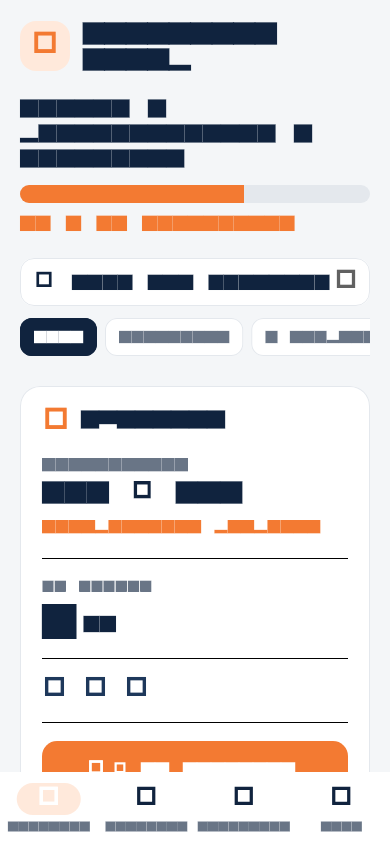
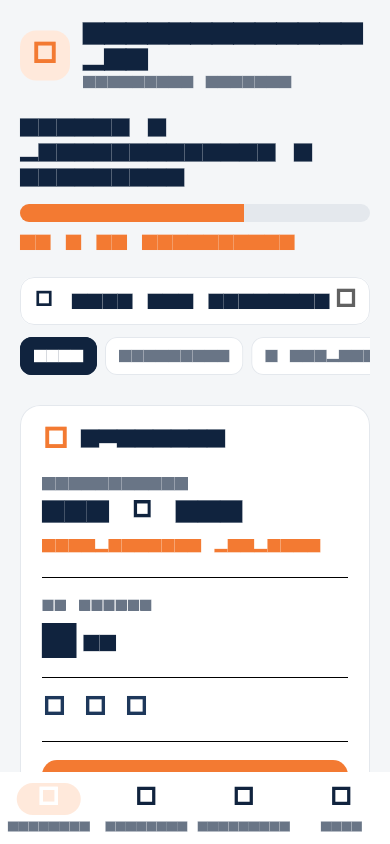
feat(rc1.1): add volunteer email and finalize app identity

Changed region(s): [[0.0308, 0.0, 0.9538, 0.9242], [0.7077, 0.0, 0.9538, 0.0616]]

diff --git a/lib/widgets/common.dart b/lib/widgets/common.dart
@@ -506,6 +506,7 @@ class _RegistrationSheetState extends State<_RegistrationSheet> {
   final _firstNameController = TextEditingController();
   final _lastNameController = TextEditingController();
   final _phoneController = TextEditingController();
+  final _emailController = TextEditingController();
   bool _submitting = false;
 
   @override
@@ -513,6 +514,7 @@ class _RegistrationSheetState extends State<_RegistrationSheet> {
     _firstNameController.dispose();
     _lastNameController.dispose();
     _phoneController.dispose();
+    _emailController.dispose();
     super.dispose();
   }
 
@@ -542,6 +544,29 @@ class _RegistrationSheetState extends State<_RegistrationSheet> {
                 style: Theme.of(context).textTheme.bodyMedium,
               ),
               const SizedBox(height: 18),
+              Text(
+                'Profession',
+                style: Theme.of(context).textTheme.titleMedium,
+              ),
+              RadioGroup<VolunteerProfession>(
+                groupValue: _profession,
+                onChanged: (value) => setState(() => _profession = value!),
+                child: const Column(
+                  children: [
+                    RadioListTile<VolunteerProfession>(
+                      contentPadding: EdgeInsets.zero,
+                      value: VolunteerProfession.mk,
+                      title: Text('Masseur-kinésithérapeute'),
+                    ),
+                    RadioListTile<VolunteerProfession>(
+                      contentPadding: EdgeInsets.zero,
+                      value: VolunteerProfession.pp,
+                      title: Text('Pédicure-podologue'),
+                    ),
+                  ],
+                ),
+              ),
+              const SizedBox(height: 8),
               Row(
                 children: [
                   Expanded(
@@ -570,27 +595,13 @@ class _RegistrationSheetState extends State<_RegistrationSheet> {
                 decoration: const InputDecoration(labelText: 'Téléphone'),
                 validator: _required,
               ),
-              const SizedBox(height: 18),
-              Text(
-                'Votre profession',
-                style: Theme.of(context).textTheme.titleMedium,
-              ),
-              RadioGroup<VolunteerProfession>(
-                groupValue: _profession,
-                onChanged: (value) => setState(() => _profession = value!),
-                child: const Column(
-                  children: [
-                    RadioListTile<VolunteerProfession>(
-                      contentPadding: EdgeInsets.zero,
-                      value: VolunteerProfession.mk,
-                      title: Text('Masseur-kinésithérapeute'),
-                    ),
-                    RadioListTile<VolunteerProfession>(
-                      contentPadding: EdgeInsets.zero,
-                      value: VolunteerProfession.pp,
-                      title: Text('Pédicure-podologue'),
-                    ),
-                  ],
+              const SizedBox(height: 10),
+              TextFormField(
+                controller: _emailController,
+                keyboardType: TextInputType.emailAddress,
+                autofillHints: const [AutofillHints.email],
+                decoration: const InputDecoration(
+                  labelText: 'Email (facultatif)',
                 ),
               ),
               const SizedBox(height: 8),
@@ -626,6 +637,7 @@ class _RegistrationSheetState extends State<_RegistrationSheet> {
         firstName: _firstNameController.text,
         lastName: _lastNameController.text,
         phone: _phoneController.text,
+        email: _emailController.text,
         profession: _profession,
       );
       if (!mounted) return;

diff --git a/lib/screens/slots_screen.dart b/lib/screens/slots_screen.dart
@@ -124,24 +124,26 @@ class _CrisisHeader extends StatelessWidget {
       children: [
         Row(
           children: [
-            Container(
-              width: 50,
-              height: 50,
-              decoration: BoxDecoration(
-                color: AppColors.orangeSoft,
-                borderRadius: BorderRadius.circular(16),
-              ),
-              child: const Icon(
-                Icons.local_fire_department_rounded,
-                color: AppColors.orange,
-                size: 28,
-              ),
-            ),
+            const _UrpsLogoSlot(),
             const SizedBox(width: 13),
             Expanded(
-              child: Text(
-                'Interface Récup',
-                style: Theme.of(context).textTheme.headlineMedium,
+              child: Column(
+                crossAxisAlignment: CrossAxisAlignment.start,
+                children: [
+                  Text(
+                    'InterfaceRecup33',
+                    style: Theme.of(context).textTheme.headlineMedium,
+                  ),
+                  const SizedBox(height: 2),
+                  const Text(
+                    'Incendies Gironde',
+                    style: TextStyle(
+                      color: AppColors.textMuted,
+                      fontSize: 12,
+                      fontWeight: FontWeight.w700,
+                    ),
+                  ),
+                ],
               ),
             ),
           ],
@@ -167,6 +169,33 @@ class _CrisisHeader extends StatelessWidget {
           ),
         ),
       ],
+    );
+  }
+}
+
+class _UrpsLogoSlot extends StatelessWidget {
+  const _UrpsLogoSlot();
+
+  @override
+  Widget build(BuildContext context) {
+    // Remplacer l’icône par l’asset officiel URPS MK NA lorsqu’il sera fourni.
+    return Semantics(
+      label: 'Emplacement du logo URPS MK Nouvelle-Aquitaine',
+      image: true,
+      child: Container(
+        key: const Key('urps-logo-slot'),
+        width: 50,
+        height: 50,
+        decoration: BoxDecoration(
+          color: AppColors.orangeSoft,
+          borderRadius: BorderRadius.circular(16),
+        ),
+        child: const Icon(
+          Icons.local_fire_department_rounded,
+          color: AppColors.orange,
+          size: 28,
+        ),
+      ),
     );
   }
 }

diff --git a/test/widget_test.dart b/test/widget_test.dart
@@ -17,7 +17,8 @@ void main() {
     tester,
   ) async {
     await pumpIPhone(tester);
-    expect(find.text('Interface Récup'), findsOneWidget);
+    expect(find.text('InterfaceRecup33'), findsOneWidget);
+    expect(find.text('Incendies Gironde'), findsOneWidget);
     expect(find.text('64 % de couverture'), findsOneWidget);
     expect(find.text('MÉRIGNAC'), findsOneWidget);
     expect(find.text('❤ JE M’ENGAGE'), findsOneWidget);
@@ -40,6 +41,31 @@ void main() {
     expect(tester.takeException(), isNull);
   });
 
+  testWidgets('engagement form includes an optional email after profession', (
+    tester,
+  ) async {
+    await pumpIPhone(tester);
+    await tester.scrollUntilVisible(
+      find.text('❤ JE M’ENGAGE'),
+      300,
+      scrollable: find.byType(Scrollable).first,
+    );
+    await tester.drag(
+      find.byType(CustomScrollView).first,
+      const Offset(0, -100),
+    );
+    await tester.pumpAndSettle();
+    await tester.tap(find.text('❤ JE M’ENGAGE').first);
+    await tester.pumpAndSettle();
+
+    expect(find.text('Profession'), findsOneWidget);
+    expect(find.text('Prénom'), findsOneWidget);
+    expect(find.text('Nom'), findsOneWidget);
+    expect(find.text('Téléphone'), findsOneWidget);
+    expect(find.text('Email (facultatif)'), findsOneWidget);
+    expect(tester.takeException(), isNull);
+  });
+
   testWidgets('all main screens are reachable without overflow', (
     tester,
   ) async {
@@ -55,7 +81,7 @@ void main() {
       );
     }
 
-    expect(find.text('Interface Récup'), findsOneWidget);
+    expect(find.text('InterfaceRecup33'), findsOneWidget);
   });
 
   testWidgets('slot filters update visible cards', (tester) async {

diff --git a/lib/repositories/firestore_coordination_repository.dart b/lib/repositories/firestore_coordination_repository.dart
@@ -30,6 +30,7 @@ class FirestoreCoordinationRepository implements CoordinationRepository {
     required String firstName,
     required String lastName,
     required String phone,
+    String? email,
     required VolunteerProfession profession,
   }) async {
     final missionRef = _firestore.collection('missions').doc(missionId);
@@ -62,13 +63,18 @@ class FirestoreCoordinationRepository implements CoordinationRepository {
       );
       final now = FieldValue.serverTimestamp();
 
-      transaction.set(volunteerRef, {
+      final volunteerData = <String, dynamic>{
         'firstName': firstName.trim(),
         'lastName': lastName.trim(),
         'phone': phone.trim(),
         'profession': profession.name,
         'createdAt': now,
-      });
+      };
+      final normalizedEmail = email?.trim();
+      if (normalizedEmail != null && normalizedEmail.isNotEmpty) {
+        volunteerData['email'] = normalizedEmail;
+      }
+      transaction.set(volunteerRef, volunteerData);
       transaction.set(engagementRef, {
         'missionId': missionId,
         'volunteerId': volunteerRef.id,

diff --git a/web/index.html b/web/index.html
@@ -18,18 +18,18 @@
 
   <meta charset="UTF-8">
   <meta content="IE=Edge" http-equiv="X-UA-Compatible">
-  <meta name="description" content="Coordination des MK et pédicures-podologues volontaires.">
+  <meta name="description" content="InterfaceRecup33 — Incendies Gironde">
 
   <!-- iOS meta tags & icons -->
   <meta name="mobile-web-app-capable" content="yes">
   <meta name="apple-mobile-web-app-status-bar-style" content="black">
-  <meta name="apple-mobile-web-app-title" content="Récup Incendies 33">
-  <link rel="apple-touch-icon" href="icons/Icon-192.png">
+  <meta name="apple-mobile-web-app-title" content="InterfaceRecup33">
+  <link rel="apple-touch-icon" sizes="192x192" href="icons/Icon-192.png">
 
   <!-- Favicon -->
-  <link rel="icon" type="image/png" href="favicon.png"/>
+  <link rel="icon" type="image/png" href="favicon.png">
 
-  <title>Interface Récup Incendies Gironde</title>
+  <title>InterfaceRecup33</title>
   <link rel="manifest" href="manifest.json">
 </head>
 <body>

diff --git a/lib/repositories/mock_coordination_repository.dart b/lib/repositories/mock_coordination_repository.dart
@@ -39,6 +39,7 @@ class MockCoordinationRepository implements CoordinationRepository {
     required String firstName,
     required String lastName,
     required String phone,
+    String? email,
     required VolunteerProfession profession,
   }) async {
     final index = _missions.indexWhere((mission) => mission.id == missionId);
@@ -60,9 +61,15 @@ class MockCoordinationRepository implements CoordinationRepository {
         firstName: firstName.trim(),
         lastName: lastName.trim(),
         phone: phone.trim(),
+        email: _nullableTrim(email),
         profession: profession,
       ),
     );
     _missionUpdates.add(List.unmodifiable(_missions));
+  }
+
+  static String? _nullableTrim(String? value) {
+    final trimmed = value?.trim();
+    return trimmed == null || trimmed.isEmpty ? null : trimmed;
   }
 }

diff --git a/test/mock_repository_test.dart b/test/mock_repository_test.dart
@@ -26,6 +26,7 @@ void main() {
       firstName: 'Jeanne',
       lastName: 'Martin',
       phone: '0600000000',
+      email: ' jeanne@example.fr ',
       profession: VolunteerProfession.mk,
     );
     await updatedEmission.future;
@@ -34,6 +35,7 @@ void main() {
     expect(emissions.last.single.registeredPhysiotherapists, 2);
     expect(emissions.last.single.coverage, greaterThan(needs.first.coverage));
     expect(repository.volunteers.single.firstName, 'Jeanne');
+    expect(repository.volunteers.single.email, 'jeanne@example.fr');
     await subscription.cancel();
   });
 
@@ -65,5 +67,6 @@ void main() {
     final updated = await repository.watchMissions().first;
 
     expect(updated.single.status, NeedStatus.complete);
+    expect(repository.volunteers.single.email, isNull);
   });
 }

diff --git a/lib/app.dart b/lib/app.dart
@@ -16,7 +16,7 @@ class FireCoordinationApp extends StatelessWidget {
     return RepositoryScope(
       repository: repository ?? MockCoordinationRepository.instance,
       child: MaterialApp(
-        title: 'Interface Récup Incendies Gironde',
+        title: 'InterfaceRecup33',
         debugShowCheckedModeBanner: false,
         theme: AppTheme.light,
         home: const AppShell(),

diff --git a/lib/models/need.dart b/lib/models/need.dart
@@ -47,12 +47,14 @@ class Volunteer {
     required this.firstName,
     required this.lastName,
     required this.phone,
+    this.email,
     required this.profession,
   });
 
   final String firstName;
   final String lastName;
   final String phone;
+  final String? email;
   final VolunteerProfession profession;
 }
 

diff --git a/lib/repositories/coordination_repository.dart b/lib/repositories/coordination_repository.dart
@@ -10,6 +10,7 @@ abstract interface class CoordinationRepository {
     required String firstName,
     required String lastName,
     required String phone,
+    String? email,
     required VolunteerProfession profession,
   });
 }

diff --git a/README.md b/README.md
@@ -1,4 +1,4 @@
-# Interface Récup Incendies Gironde
+# InterfaceRecup33
 
 PWA Flutter de coordination en temps réel des professionnels volontaires.
 
@@ -34,7 +34,8 @@ implémentations disponibles sont :
 - `locations` : `name`, `type`, `group`, `activeNeeds`, `address`
 - `missions` : `place`, `group`, `date`, `time`, quotas et compteurs MK/PP,
   `equipment`, `status`
-- `volunteers` : `firstName`, `lastName`, `phone`, `profession`, `createdAt`
+- `volunteers` : `firstName`, `lastName`, `phone`, `email` facultatif,
+  `profession`, `createdAt`
 - `engagements` : `missionId`, `volunteerId`, `profession`, `createdAt`
 
 La création d’un engagement, du volontaire et la mise à jour des compteurs et

diff --git a/web/icons/README.md b/web/icons/README.md
@@ -1,0 +1,12 @@
+# Icônes InterfaceRecup33
+
+Remplacer les PNG existants, sans modifier leurs noms :
+
+- `../favicon.png` : favicon du navigateur ;
+- `Icon-192.png` : icône PWA 192 × 192 ;
+- `Icon-512.png` : icône PWA 512 × 512 ;
+- `Icon-maskable-192.png` : icône maskable 192 × 192 ;
+- `Icon-maskable-512.png` : icône maskable 512 × 512.
+
+Les fichiers maskable doivent conserver une zone de sécurité suffisante autour
+du logo. Le manifeste et `index.html` référencent déjà ces chemins.
